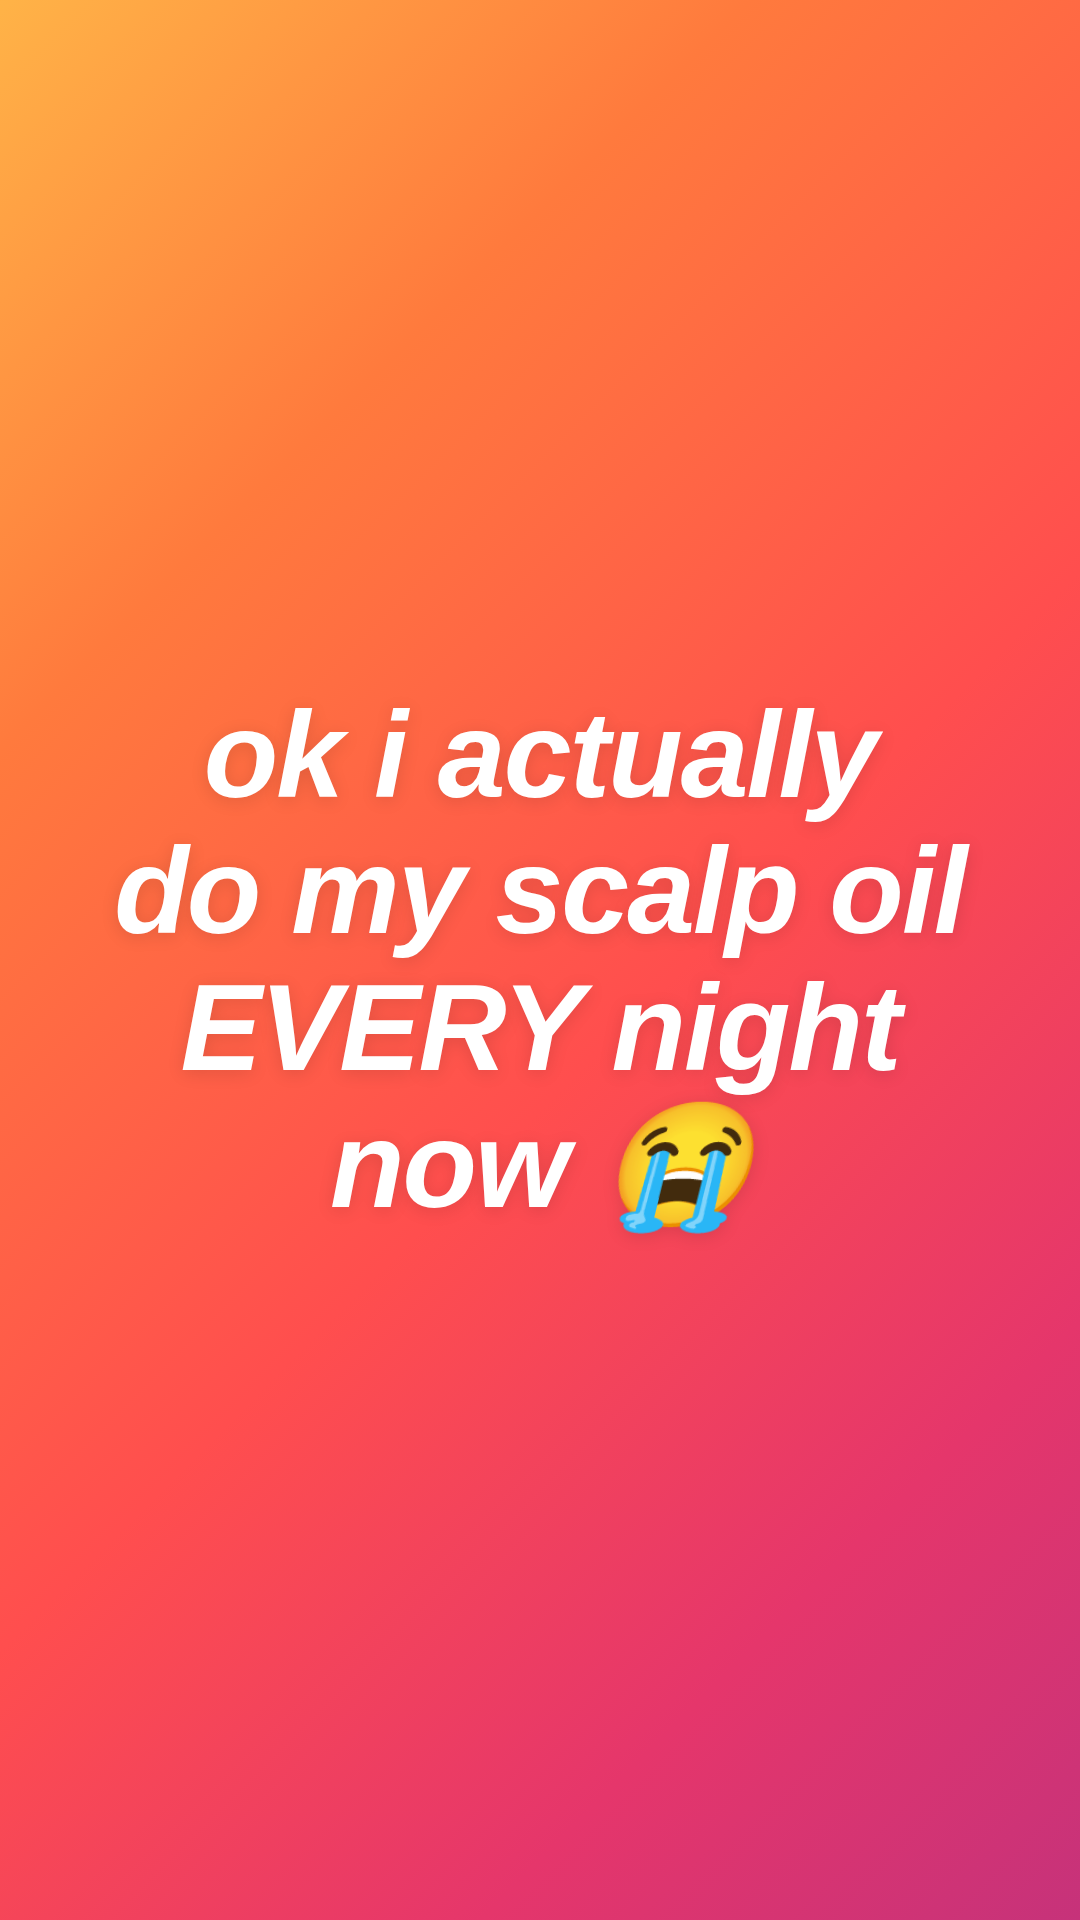
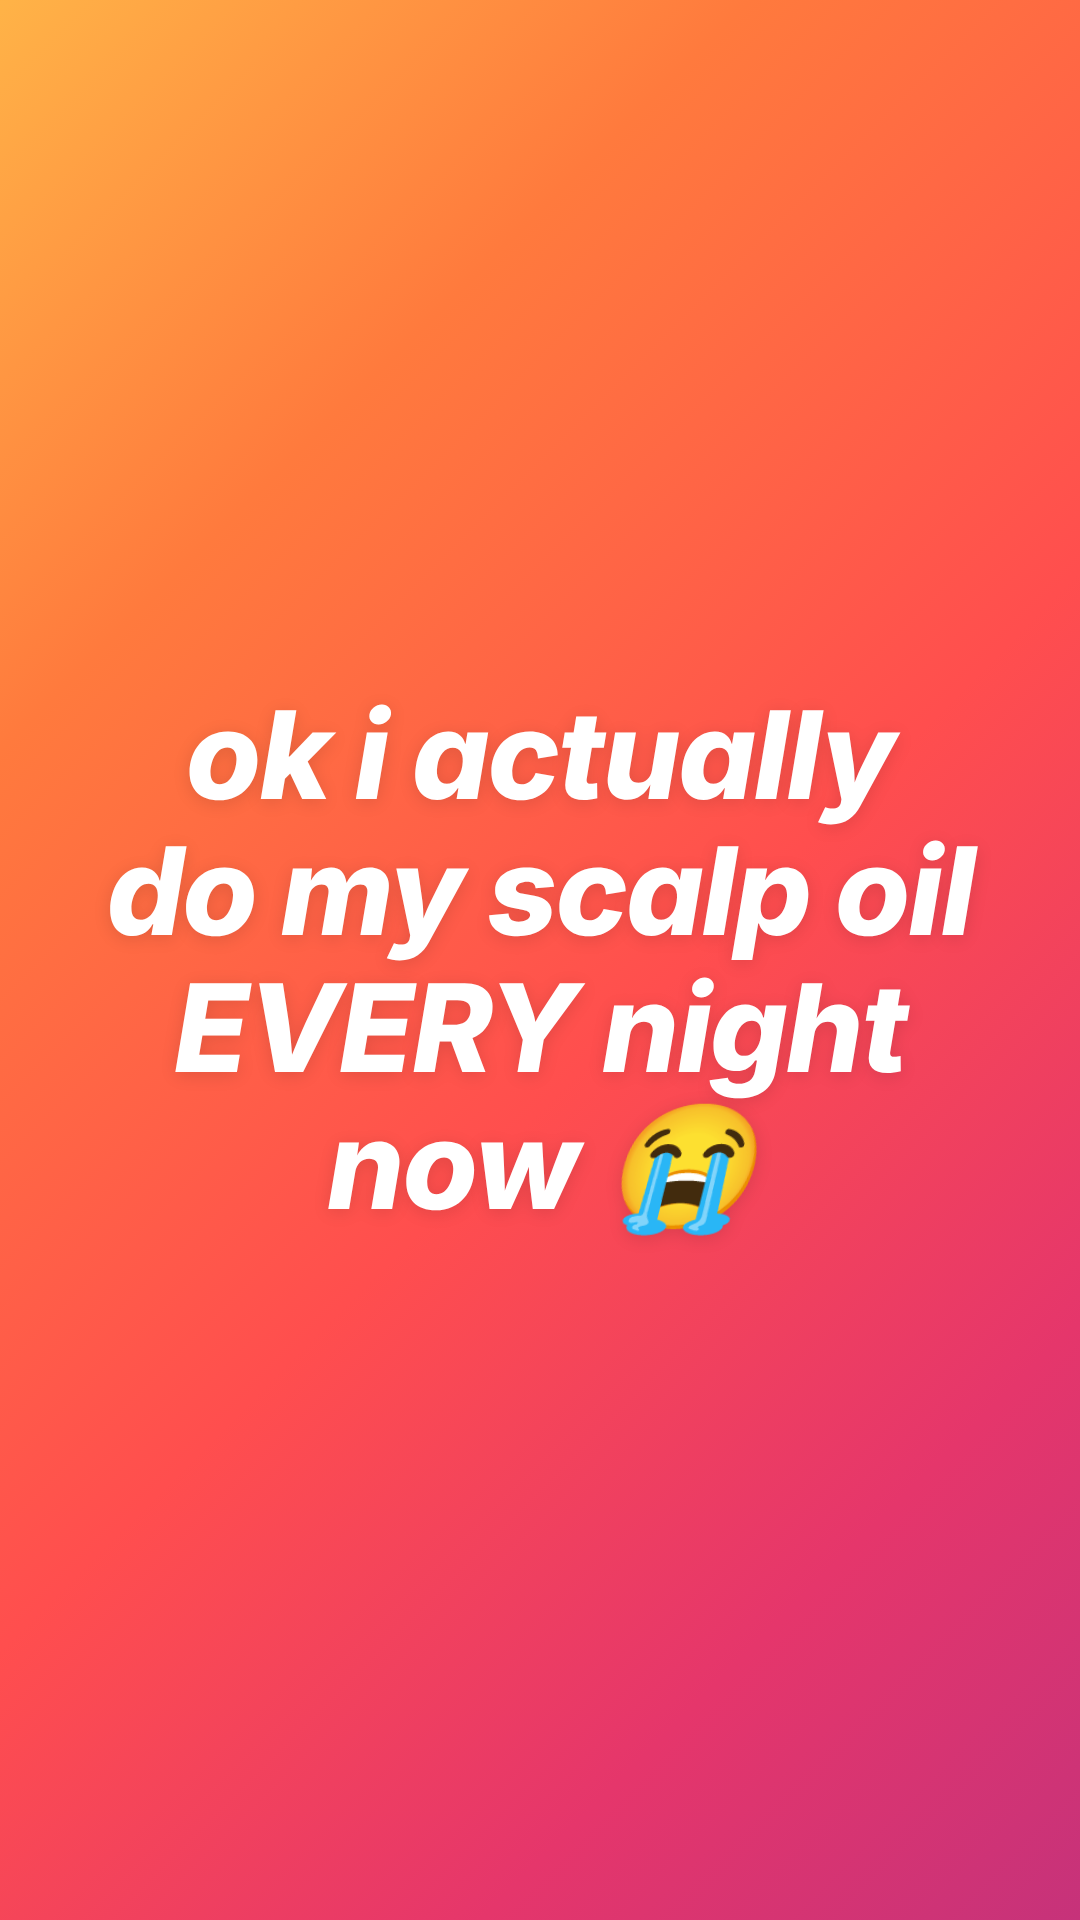
R8: switch test variable from color to hook (pain + mechanism hooks)
Per the master doc, three hooks must open three different doors. The
control hook is the identity/relief door, so the two new hooks are a
pain door (P3 wet-hands moment) and a curiosity/mechanism door (P8
exoneration: it wasn't discipline, it was the tool). Lead and body are
unchanged; both new hooks lift only language already in the converting
copy. Orange only so the hook is the single variable.

Claude-Session: https://claude.ai/code/session_012gUtMZiqtPwm3gohbR8hQE

Changed region(s): [[0.0917, 0.3438, 0.9167, 0.6562]]

diff --git a/creatives/build-r8-hook-only.js b/creatives/build-r8-hook-only.js
@@ -1,6 +1,9 @@
 // R8: hook-only creative. Same gradients as the R3 Orange/Purple winners, but the on-image
 // text is cut from ~12 lines to the hook alone, set much larger (reference: single bold
 // italic line on a gradient). Copy lives in ads/ninu-r8-hook-only.md.
+//
+// Hook test: A/B are the control hook (both colors). C and D are the two new hooks, Orange only
+// so the hook is the single variable.
 const fs = require('fs');
 const path = require('path');
 const { chromium } = require('playwright');
@@ -9,47 +12,50 @@ const SIZE = [1080, 1920];
 const OUT = path.join(__dirname, 'png', 'R8-Hook-Only');
 fs.mkdirSync(OUT, { recursive: true });
 
-const HOOK_LINES = ['ok i actually', 'do my scalp oil', 'EVERY night', 'now 😭'];
+const ORANGE = 'linear-gradient(135deg, #ffb347 0%, #ff7a3d 25%, #ff4e4e 55%, #e5366b 80%, #c6327a 100%)';
+const PURPLE = 'linear-gradient(135deg, #3E7BEA 0%, #6A5CEE 32%, #A855D1 62%, #D93FA8 85%, #E8399E 100%)';
+
+const CONTROL = { lines: ['ok i actually', 'do my scalp oil', 'EVERY night', 'now 😭'], size: 122 };
+const PAIN = { lines: ['baby up 3 times.', 'wet hands, in bed.', 'skipped my scalp', 'oil again 😭'], size: 105 };
+const MECHANISM = { lines: ['i thought i was bad', 'at scalp oil.', 'i was just doing', 'it wrong 😭'], size: 101 };
 
 const VARIANTS = [
-  {
-    key: 'A__Orange-HookOnly',
-    gradient: 'linear-gradient(135deg, #ffb347 0%, #ff7a3d 25%, #ff4e4e 55%, #e5366b 80%, #c6327a 100%)',
-  },
-  {
-    key: 'B__Purple-HookOnly',
-    gradient: 'linear-gradient(135deg, #3E7BEA 0%, #6A5CEE 32%, #A855D1 62%, #D93FA8 85%, #E8399E 100%)',
-  },
+  { key: 'A__Orange-HookOnly', gradient: ORANGE, ...CONTROL },
+  { key: 'B__Purple-HookOnly', gradient: PURPLE, ...CONTROL },
+  { key: 'C__Orange-Hook-Pain', gradient: ORANGE, ...PAIN },
+  { key: 'D__Orange-Hook-Mechanism', gradient: ORANGE, ...MECHANISM },
 ];
 
-function html(gradient) {
+function html(v) {
   const [w, h] = SIZE;
   return `<!doctype html>
 <html><head><meta charset="utf-8"><style>
   * { box-sizing: border-box; margin: 0; padding: 0; }
   html, body { width: ${w}px; height: ${h}px; overflow: hidden; }
   body {
-    background: ${gradient};
+    background: ${v.gradient};
     display: flex; align-items: center; justify-content: center;
     text-align: center; padding: 0 70px;
   }
   .hook {
     font-family: -apple-system, BlinkMacSystemFont, 'Segoe UI', Roboto, Helvetica, Arial, sans-serif;
     font-style: italic; font-weight: 800;
-    font-size: 122px; line-height: 1.12; letter-spacing: -2px;
+    font-size: ${v.size}px; line-height: 1.12; letter-spacing: -2px;
     color: #fff; white-space: nowrap;
     text-shadow: 0 3px 18px rgba(0,0,0,0.12);
   }
-</style></head><body><div class="hook">${HOOK_LINES.map(l => `<div>${l}</div>`).join('')}</div></body></html>`;
+</style></head><body><div class="hook">${v.lines.map(l => `<div>${l}</div>`).join('')}</div></body></html>`;
 }
 
 (async () => {
   const browser = await chromium.launch({ executablePath: '/opt/pw-browsers/chromium', args: ['--no-sandbox'] });
   for (const v of VARIANTS) {
     const page = await browser.newPage({ viewport: { width: SIZE[0], height: SIZE[1] } });
-    await page.setContent(html(v.gradient), { waitUntil: 'networkidle' });
+    await page.setContent(html(v), { waitUntil: 'networkidle' });
     await page.evaluate(() => document.fonts.ready);
     await page.waitForTimeout(400);
+    const widest = await page.evaluate(() => Math.max(...[...document.querySelectorAll('.hook div')].map(d => { const r = document.createRange(); r.selectNodeContents(d); return r.getBoundingClientRect().width; })));
+    if (widest > SIZE[0] - 140) console.warn(`! ${v.key}: widest line ${Math.round(widest)}px exceeds safe width`);
     const outPath = path.join(OUT, `R8-${v.key}__9x16.png`);
     await page.screenshot({ path: outPath });
     await page.close();

diff --git a/ads/ninu-r8-hook-only.md b/ads/ninu-r8-hook-only.md
@@ -1,26 +1,107 @@
-# R8: Hook-only creative + improved mechanism (Ad C body)
+# R8: Hook test (one color, three hooks) + improved mechanism
 
-Goes back to the Orange/Purple format that produced sales, with two changes:
+One variable: **the hook**. Body from the lead onward ("I had the castor oil."), headline,
+description, CTA, Orange gradient and hook-only layout are identical on all three ads. Body
+includes the rewritten mechanism paragraph (hair doesn't absorb oil, skin does).
 
-1. **On-image text cut to the hook only** (was ~12 lines; now one line, ~2x larger).
-2. **Mechanism paragraph (P6) rewritten** around "hair doesn't absorb oil, skin does".
+Rule from Aarreign's Master Document (Longform Copy section 6 and Avatar Deepening): three hooks
+must each use a different pattern and open a different door (pain, identity, curiosity/mechanism).
+"Three variations of the same hook is not three hooks." Hook and lead are one unit, so the lead
+does not move and each new hook hands off cleanly into it.
 
-Everything else in the copy is verbatim from Ad C (`ninu-r1-long-form.md`).
+## The three hooks
+
+| Ad | Door | Master-doc pattern | Source (from the winning copy) | On-image line | Why it hands off to the lead |
+|---|---|---|---|---|---|
+| A1_C_Orange_HookOnly (control) | Identity / relief | Transformation story | Control, converted in R1, Orange, Purple | ok i actually do my scalp oil EVERY night now | "That wasn't true six months ago" leads into "I had the castor oil..." |
+| A1_C_Orange_HookPain | Pain | Drop them into the scene (sensory loop moment) | P3: "the baby would be up three times and I'd get into bed with wet hands and just not do it" | baby up 3 times. wet hands, in bed. skipped my scalp oil again | The skip is the problem; the lead explains she had everything and still couldn't stay consistent |
+| A1_C_Orange_HookMechanism | Curiosity / mechanism | Mistake callout + one-line contradiction | P8: "Not because I'd become more disciplined. Because the tool I'd been using was wrong"; desire = exoneration (R2) | i thought i was bad at scalp oil. i was just doing it wrong | "I wasn't" opens a loop the lead keeps open and P6 ("the wrong place") closes |
+
+No hook adds a claim, detail or situation that isn't already in the converting copy.
 
 Creatives (9:16, built by `creatives/build-r8-hook-only.js`):
-- `creatives/png/R8-Hook-Only/R8-A__Orange-HookOnly__9x16.png`
-- `creatives/png/R8-Hook-Only/R8-B__Purple-HookOnly__9x16.png`
+- Control: `creatives/png/R8-Hook-Only/R8-A__Orange-HookOnly__9x16.png`
+- Pain: `creatives/png/R8-Hook-Only/R8-C__Orange-Hook-Pain__9x16.png`
+- Mechanism: `creatives/png/R8-Hook-Only/R8-D__Orange-Hook-Mechanism__9x16.png`
+- (`R8-B__Purple-HookOnly` is the control hook in Purple, not used in this test)
 
-Ad names: `A1_C_Orange_HookOnly`, `A1_C_Purple_HookOnly`
-Headline: Your messy oil routine's worst nightmare
-Link description: Free US shipping · 30-day guarantee
-CTA: Shop Now
+Headline (all three): Your messy oil routine's worst nightmare
+Link description (all three): Free US shipping · 30-day guarantee
+CTA (all three): Shop Now
 
 ---
 
-## Primary text (paste into Ads Manager)
+## Ad 1: A1_C_Orange_HookOnly (control) · primary text (430 words)
 
 I actually do my scalp oil every night now. That wasn't true six months ago.
+
+I had the castor oil. I had the rosemary. I believed in the routine. I just couldn't make myself do it consistently.
+
+I'd do it four nights in a row and then the baby would be up three times and I'd get into bed with wet hands and just not do it. Then I'd skip a second night. The bottle would migrate to the back of the shelf and I'd tell myself I'd start over Sunday. I never started over Sunday.
+
+The thing I kept reading about, the consistent nightly scalp massage, the women who said they did it every single night for six months, I couldn't figure out how they were doing it. My routine was annoying. Oil on my fingers before I touched anything else. Running down my neck. Soaking into the towel I'd wrapped around my shoulders to protect my shirt. By the time I finished one section I was already thinking about the cleanup. It stopped feeling like self-care and started feeling like a chore.
+
+A chore at 10pm after a full day with a baby is a chore that gets skipped.
+
+Turns out I'd been putting it in the wrong place. Hair doesn't absorb oil. Skin does. Nights of working it down the strands, and almost none of it reached my scalp.
+
+I got a dispenser with hollow silicone tips. You press them against the scalp along the part and the oil releases right there, on the skin. Nothing runs. Nothing drips. Clear chamber, 1 to 4ml markings. One hand. Two minutes. Works with the oil I already had.
+
+The first night I used it I thought: oh. This is what it's supposed to feel like.
+
+By the end of the first week I hadn't skipped a night. That had never happened. A few weeks in the routine was automatic, same as washing my face. Not because I'd become more disciplined. Because the tool I'd been using was wrong and this one isn't.
+
+The habit was always there. The routine just needed to be easier than the reason to quit.
+
+The Ninu Kit comes with the dispenser, 60ml scalp oil, and a satin bonnet for $49.99. Free US shipping and a 30-day money-back guarantee.
+
+You try it, tonight's routine takes two minutes. You stop skipping. The habit you already believed in finally sticks.
+
+You don't, Sunday comes around again. You tell yourself you'll start over next week.
+
+Make tonight the easy one. Try the Ninu Kit risk-free for 30 days.
+
+---
+
+## Ad 2: A1_C_Orange_HookPain · primary text (428 words)
+
+Baby up three times.
+Wet hands, in bed.
+Skipped my scalp oil again.
+
+I had the castor oil. I had the rosemary. I believed in the routine. I just couldn't make myself do it consistently.
+
+I'd do it four nights in a row and then the baby would be up three times and I'd get into bed with wet hands and just not do it. Then I'd skip a second night. The bottle would migrate to the back of the shelf and I'd tell myself I'd start over Sunday. I never started over Sunday.
+
+The thing I kept reading about, the consistent nightly scalp massage, the women who said they did it every single night for six months, I couldn't figure out how they were doing it. My routine was annoying. Oil on my fingers before I touched anything else. Running down my neck. Soaking into the towel I'd wrapped around my shoulders to protect my shirt. By the time I finished one section I was already thinking about the cleanup. It stopped feeling like self-care and started feeling like a chore.
+
+A chore at 10pm after a full day with a baby is a chore that gets skipped.
+
+Turns out I'd been putting it in the wrong place. Hair doesn't absorb oil. Skin does. Nights of working it down the strands, and almost none of it reached my scalp.
+
+I got a dispenser with hollow silicone tips. You press them against the scalp along the part and the oil releases right there, on the skin. Nothing runs. Nothing drips. Clear chamber, 1 to 4ml markings. One hand. Two minutes. Works with the oil I already had.
+
+The first night I used it I thought: oh. This is what it's supposed to feel like.
+
+By the end of the first week I hadn't skipped a night. That had never happened. A few weeks in the routine was automatic, same as washing my face. Not because I'd become more disciplined. Because the tool I'd been using was wrong and this one isn't.
+
+The habit was always there. The routine just needed to be easier than the reason to quit.
+
+The Ninu Kit comes with the dispenser, 60ml scalp oil, and a satin bonnet for $49.99. Free US shipping and a 30-day money-back guarantee.
+
+You try it, tonight's routine takes two minutes. You stop skipping. The habit you already believed in finally sticks.
+
+You don't, Sunday comes around again. You tell yourself you'll start over next week.
+
+Make tonight the easy one. Try the Ninu Kit risk-free for 30 days.
+
+---
+
+## Ad 3: A1_C_Orange_HookMechanism · primary text (435 words)
+
+I thought I was just bad at doing my scalp oil every night.
+
+I wasn't. I was doing it wrong.
 
 I had the castor oil. I had the rosemary. I believed in the routine. I just couldn't make myself do it consistently.
 
@@ -58,5 +139,6 @@ Make tonight the easy one. Try the Ninu Kit risk-free for 30 days.
 
 ## Test read
 
-- Budget £15/day per ad. Same checkpoints as `ninu-kill-criteria.md` section 3 (hard stop £53.85 with 0 purchases).
-- Compare link CPC and CPM to Purple_Textincrease (£4.98 link CPC, £241.87 CPM lifetime). Judge on purchases, not CTR.
+- £15/day per ad. Same checkpoints as `ninu-kill-criteria.md` section 3 (hard stop £53.85 with 0 purchases per ad).
+- Per the master doc: CPC is the hook/lead read, so compare link CPC across the three first. Judge the winner on purchases, not CTR.
+- If one hook wins, the next round changes one variable again (image or headline), never two.
